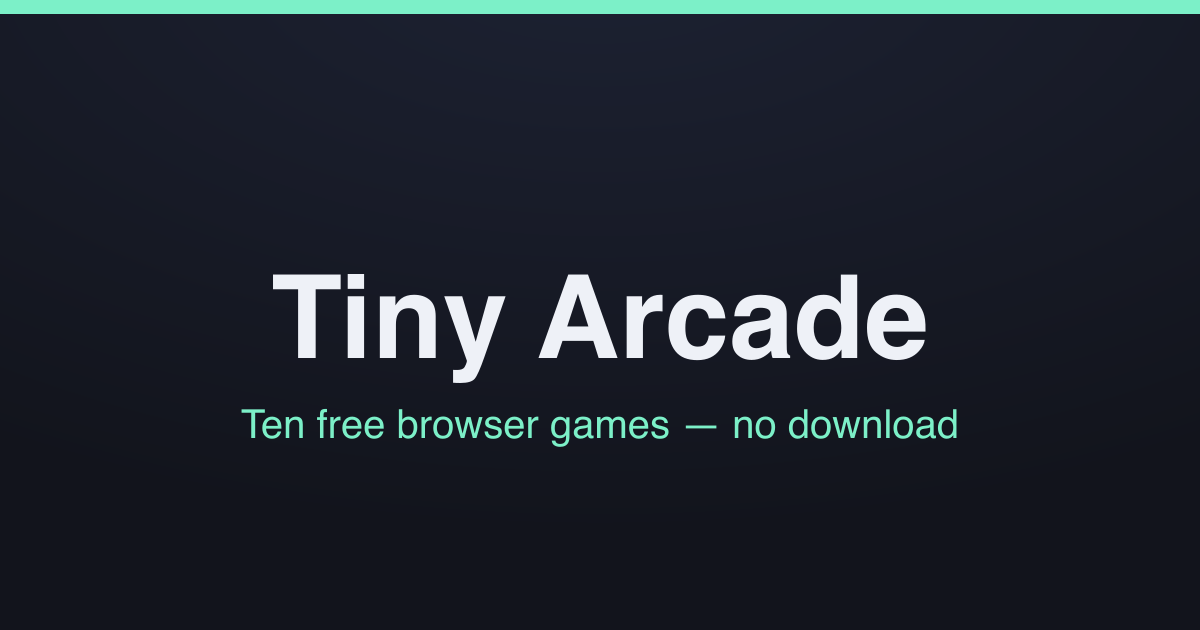
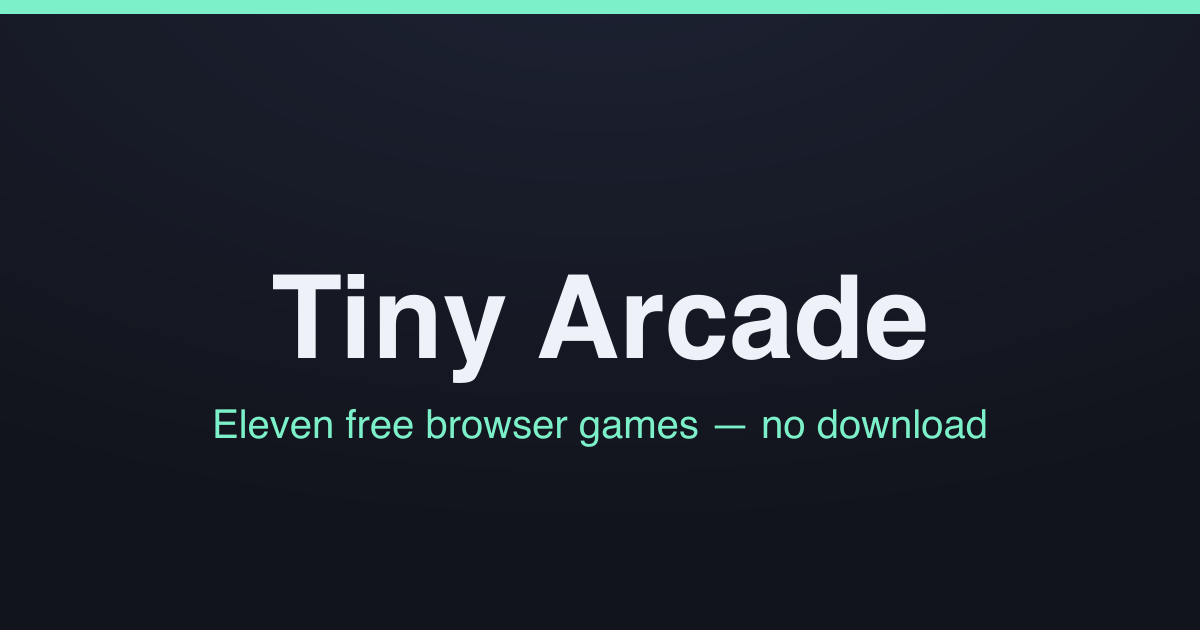
docs: update Arcade everywhere for 2048 and 11 featured games

Changed region(s): [[0.1542, 0.6333, 0.8325, 0.7238]]

diff --git a/index.html b/index.html
@@ -16,8 +16,8 @@
   <meta name="apple-mobile-web-app-title" content="Tiny Arcade" />
   <meta name="application-name" content="Tiny Arcade" />
 
-  <title>Tiny Arcade — 10 Free Browser Brain &amp; Skill Games, No Download</title>
-  <meta name="description" content="Play ten free, instant browser games — no download, no signup. Reflex, memory and colour puzzles plus brain trainers: mental maths, typing speed, digit span, ear training, a geography quiz and an unlimited Wordle. Works on mobile; scores saved locally." />
+  <title>Tiny Arcade — 11 Free Browser Brain &amp; Skill Games, No Download</title>
+  <meta name="description" content="Play eleven free, instant browser games — no download, no signup. Reflex, memory and colour puzzles plus brain trainers: mental maths, typing speed, digit span, ear training, geography, 2048 and unlimited Wordle. Works on mobile; scores saved locally." />
   <meta name="keywords" content="free browser games, online games no download, brain training games, reflex game, memory game, colour matching puzzle, speed reading trainer, mental maths game, typing test, ear training game, geography quiz, html5 games, mini games" />
   <meta name="author" content="Tiny Arcade" />
   <meta name="robots" content="index, follow, max-image-preview:large, max-snippet:-1" />
@@ -26,24 +26,24 @@
   <!-- Open Graph -->
   <meta property="og:type" content="website" />
   <meta property="og:site_name" content="Tiny Arcade" />
-  <meta property="og:title" content="Tiny Arcade — 10 Free Browser Games" />
-  <meta property="og:description" content="Ten free, instant browser games — reflex, memory, colour puzzles, mental maths, typing, memory span, ear training, geography and unlimited Wordle. No download. Plays on any device." />
+  <meta property="og:title" content="Tiny Arcade — 11 Free Browser Games" />
+  <meta property="og:description" content="Eleven free, instant browser games — reflex, memory, colour puzzles, mental maths, typing, memory span, ear training, geography, 2048 and unlimited Wordle. No download. Plays on any device." />
   <meta property="og:url" content="https://games.vanshul.com/" />
   <meta property="og:locale" content="en_US" />
   <meta property="og:image" content="https://games.vanshul.com/assets/og/hub.png" />
   <meta property="og:image:type" content="image/png" />
   <meta property="og:image:width" content="1200" />
   <meta property="og:image:height" content="630" />
-  <meta property="og:image:alt" content="Tiny Arcade — ten tiny browser games" />
+  <meta property="og:image:alt" content="Tiny Arcade — eleven tiny browser games" />
 
   <!-- Twitter -->
   <meta name="twitter:card" content="summary_large_image" />
   <meta name="twitter:site" content="@goyal_vanshul" />
   <meta name="twitter:creator" content="@goyal_vanshul" />
-  <meta name="twitter:title" content="Tiny Arcade — 10 Free Browser Games" />
-  <meta name="twitter:description" content="Ten free, instant browser games — reflex, memory, colour puzzles, mental maths, typing, memory span, ear training, geography and unlimited Wordle. No download." />
+  <meta name="twitter:title" content="Tiny Arcade — 11 Free Browser Games" />
+  <meta name="twitter:description" content="Eleven free, instant browser games — reflex, memory, colour puzzles, mental maths, typing, memory span, ear training, geography, 2048 and unlimited Wordle. No download." />
   <meta name="twitter:image" content="https://games.vanshul.com/assets/og/hub.png" />
-  <meta name="twitter:image:alt" content="Tiny Arcade — ten tiny browser games" />
+  <meta name="twitter:image:alt" content="Tiny Arcade — eleven tiny browser games" />
 
   <!-- Warm up + preload the auth SDK so the sign-in UI isn't gated on a cold CDN fetch -->
   <link rel="preconnect" href="https://esm.sh" crossorigin />
@@ -63,7 +63,7 @@
         "@id": "https://games.vanshul.com/#website",
         "name": "Tiny Arcade",
         "url": "https://games.vanshul.com/",
-        "description": "Ten free, instant browser games — no download, no signup.",
+        "description": "Eleven free, instant browser games — no download, no signup.",
         "inLanguage": "en",
         "publisher": { "@id": "https://games.vanshul.com/#org" }
       },
@@ -116,7 +116,7 @@
 <body class="hub">
   <header class="hub-head">
     <h1 class="logo">TINY&nbsp;ARCADE</h1>
-    <p class="tagline">Ten tiny games. One more round. Just one more.</p>
+    <p class="tagline">Eleven tiny games. One more round. Just one more.</p>
     <div class="theme-switch">
       <button type="button" id="randomBtn" class="theme-btn"><svg viewBox="0 0 24 24" width="15" height="15" fill="none" stroke="currentColor" stroke-width="1.8" stroke-linejoin="round" style="vertical-align:-2px" aria-hidden="true"><rect x="4" y="4" width="16" height="16" rx="3"/><circle cx="8.5" cy="8.5" r="1" fill="#facc15" stroke="none"/><circle cx="15.5" cy="8.5" r="1" fill="#f472b6" stroke="none"/><circle cx="12" cy="12" r="1" fill="#22d3ee" stroke="none"/><circle cx="8.5" cy="15.5" r="1" fill="#34d399" stroke="none"/><circle cx="15.5" cy="15.5" r="1" fill="#a78bfa" stroke="none"/></svg> Random</button>
       <button type="button" id="lbBtn" class="theme-btn"><svg viewBox="0 0 24 24" width="15" height="15" fill="none" stroke="currentColor" stroke-width="1.8" stroke-linecap="round" stroke-linejoin="round" style="vertical-align:-2px;color:#facc15" aria-hidden="true"><path d="M7 4h10v4a5 5 0 0 1-5 5 5 5 0 0 1-5-5V4z"/><path d="M7 5H4v2a3 3 0 0 0 3 3M17 5h3v2a3 3 0 0 1-3 3M12 13v3.2M9 19.5h6"/></svg> Leaderboard</button>

diff --git a/tests/featured-count.test.ts b/tests/featured-count.test.ts
@@ -9,7 +9,7 @@ const read = (name: string) => readFileSync(resolve(process.cwd(), name), 'utf8'
 const hub = read('index.html');
 // The hub cards are the source of truth: a game is "featured" when it has a card.
 // (interval/ is built and reachable but deliberately not carded.)
-const featured = [...new Set([...hub.matchAll(/href="([a-z-]+)\/"/g)].map((m) => m[1]))];
+const featured = [...new Set([...hub.matchAll(/href="([a-z0-9-]+)\/"/g)].map((m) => m[1]))];
 
 describe('featured game count', () => {
   it('links every featured game exactly once', () => {

diff --git a/README.md b/README.md
@@ -1,6 +1,6 @@
 # 🕹 Tiny Arcade
 
-**10 tiny, instantly-playable browser games for your brain and reflexes.**
+**11 tiny, instantly-playable browser games for your brain and reflexes.**
 No installs, no accounts, no backend — just open a page and play.
 
 ### ▶ Play now: **[games.vanshul.com](https://games.vanshul.com)**
@@ -23,11 +23,10 @@ No installs, no accounts, no backend — just open a page and play.
 | 🧮 **Flashmath** | Mental-arithmetic beat-the-clock |
 | ⌨ **Sprint** | Typing speed & accuracy (15 / 30 / 60s) |
 | 🔢 **Digit Span** | Working-memory digit recall (forward & reverse) |
+| 🔢 **2048** | Slide and merge tiles to reach 2048 — then keep going |
 | 🗺 **Where** | Geography — flags & capitals of ~200 countries |
 | 📖 **Word of the Day** | Vocabulary builder with a daily word + practice quiz |
 | 🟩 **Wordle** | Unlimited 5-letter word puzzles |
-
-> Also included: **Interval** (ear-training) — fully built, but not currently featured on the hub.
 
 > Also included: **Interval** (ear-training) — fully built, but not currently featured on the hub.
 

diff --git a/DOCUMENTATION.md b/DOCUMENTATION.md
@@ -142,7 +142,7 @@ The hub and all games are tuned to feel native on phones and tablets:
 A static landing page. Key points:
 
 - `<body class="hub">` — hub styles live in `assets/style.css`.
-- Ten `.card` links, one per featured game, each pointing at the game's clean URL `<game>/`.
+- Eleven `.card` links, one per featured game, each pointing at the game's clean URL `<game>/`.
 - Each card sets an accent colour via `style="--accent:…"`.
 - The SVG favicon is inlined as a data URI (🕹).
 - No JavaScript on the hub itself.
